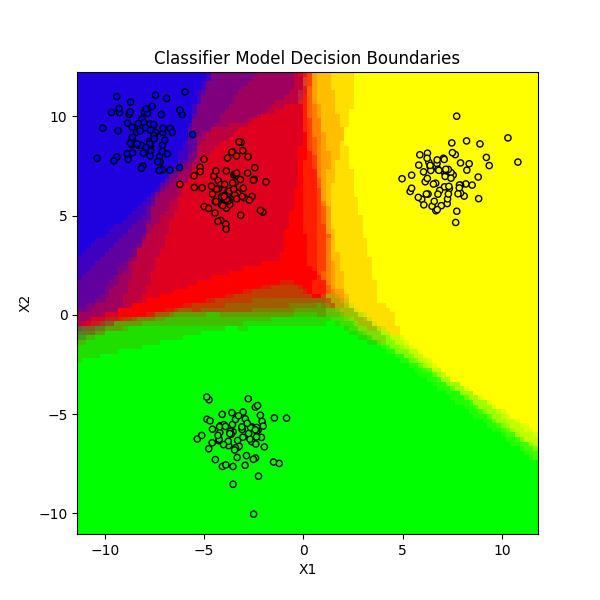
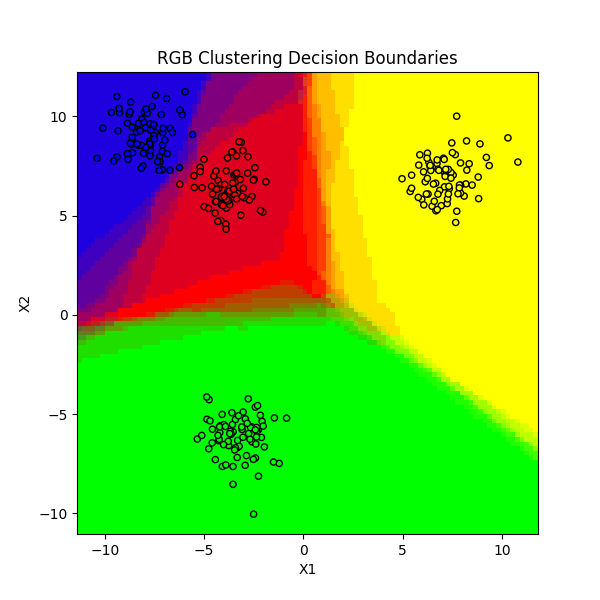
Version 1.0.24

Changed region(s): [[0.24, 0.06, 0.78, 0.12]]

diff --git a/tests/test_visualization_save.py b/tests/test_visualization_save.py
@@ -15,9 +15,13 @@ bagging_classifier.fit(X, y)
 # Step 3: Define some colors for each class (e.g., for 4 classes)
 colors = [(255, 0, 0), (0, 255, 0), (0, 0, 255), (255, 255, 0)]  # Red, Green, Blue, Yellow
 
-# Step 4: Declare a path to save the plot (optional)
-path = "/data/notebook_files" # Example path for Jetbrains Datalore
+# Step 4: Declare the name of the plot and its resolution
+plotTitle = 'RGB Clustering Decision Boundaries'
+resolution = 100
+
+# Step 5: Declare a path to save the plot
+path = "C:/Users/anton/Desktop/Antonio/University/Programming/IntelliJ/Projects/University/GitHub/clustervis" # Example path for Jetbrains Datalore
 filename = "classifier.png"
 
-# Step 5: Plot the decision boundary and save it
-plot_decision_boundaries(X, bagging_classifier, colors, 100, path, filename)
+# Step 6: Plot the decision boundary and save it
+plot_decision_boundaries(X, bagging_classifier, colors, resolution, plotTitle, path, filename)

diff --git a/clustervis/visualization.py b/clustervis/visualization.py
@@ -2,7 +2,7 @@ import numpy as np
 import matplotlib.pyplot as plt
 from clustervis.colors import compute_weighted_rgb
 
-def plot_decision_boundaries(X, classifier, colors, resolution, path=None, filename=""):
+def plot_decision_boundaries(X, classifier, colors, resolution, plotTitle, path=None, filename=""):
     """
     Plot the decision boundary of a classifier with weighted RGB visualization.
     """
@@ -32,7 +32,7 @@ def plot_decision_boundaries(X, classifier, colors, resolution, path=None, filen
 
     plt.xlabel('X1')
     plt.ylabel('X2')
-    plt.title('Classifier Model Decision Boundaries')
+    plt.title(plotTitle)
     if path is not None:
         plt.savefig(f"{path}/{filename}")
     plt.show()

diff --git a/tests/test_visualization_nosave.py b/tests/test_visualization_nosave.py
@@ -15,5 +15,9 @@ bagging_classifier.fit(X, y)
 # Step 3: Define some colors for each class (e.g., for 4 classes)
 colors = [(255, 0, 0), (0, 255, 0), (0, 0, 255), (255, 255, 0)]  # Red, Green, Blue, Yellow
 
-# Step 4: Plot the decision boundary
-plot_decision_boundaries(X, bagging_classifier, colors, 100)
+# Step 4: Declare the name of the plot and its resolution
+plotTitle = 'RGB Clustering Decision Boundaries'
+resolution = 100
+
+# Step 5: Plot the decision boundary and save it
+plot_decision_boundaries(X, bagging_classifier, colors, resolution, plotTitle)

diff --git a/README.md b/README.md
@@ -37,12 +37,16 @@ bagging_classifier.fit(X, y)
 # Step 3: Define some colors for each class (e.g., for 4 classes)
 colors = [(255, 0, 0), (0, 255, 0), (0, 0, 255), (255, 255, 0)]  # Red, Green, Blue, Yellow
 
-# Step 4: Declare a path to save the plot (optional)
+# Step 4: Declare the name of the plot and its resolution
+plotTitle = 'RGB Clustering Decision Boundaries'
+resolution = 100
+
+# Step 5: Declare a path to save the plot
 path = "/data/notebook_files" # Example path for Jetbrains Datalore
 filename = "classifier.png"
 
-# Step 5: Plot the decision boundary
-plot_decision_boundaries(X, bagging_classifier, colors, 100, path, filename)
+# Step 6: Plot the decision boundary and save it
+plot_decision_boundaries(X, bagging_classifier, colors, resolution, plotTitle, path, filename)
 ```
 
 ### Save disabled
@@ -65,8 +69,12 @@ bagging_classifier.fit(X, y)
 # Step 3: Define some colors for each class (e.g., for 4 classes)
 colors = [(255, 0, 0), (0, 255, 0), (0, 0, 255), (255, 255, 0)]  # Red, Green, Blue, Yellow
 
-# Step 4: Plot the decision boundary
-plot_decision_boundaries(X, bagging_classifier, colors, 100)
+# Step 4: Declare the name of the plot and its resolution
+plotTitle = 'RGB Clustering Decision Boundaries'
+resolution = 100
+
+# Step 5: Plot the decision boundary and save it
+plot_decision_boundaries(X, bagging_classifier, colors, resolution, plotTitle)
 ```
 
 ## License
